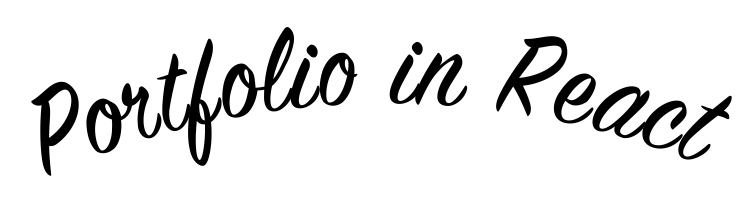
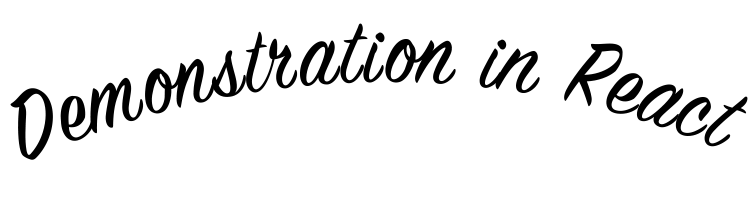
マージン修正、ドロワー修正、タイトル画像修正

Changed region(s): [[0.0, 0.12, 1.0, 0.87]]

diff --git a/src/Nav.js b/src/Nav.js
@@ -2,7 +2,6 @@
 import React, {useContext} from 'react';
 import { Link } from 'react-router-dom';
 import MenuItem from '@material-ui/core/MenuItem';
-import ClearIcon from '@material-ui/icons/Clear';
 import { makeStyles } from '@material-ui/core/styles';
 import MailIcon from '@material-ui/icons/Mail';
 import GamepadIcon from '@material-ui/icons/Gamepad';
@@ -11,7 +10,7 @@ import HomeIcon from '@material-ui/icons/Home';
 import MenuBookIcon from '@material-ui/icons/MenuBook';
 import { AuthContext } from "./auth/AuthProvider";
 import { TittleAlarm } from "./Game";
-import Title from './img/mtitle.png';
+
 
 const useStyles = makeStyles({
   link: {
@@ -34,18 +33,6 @@ const useStyles = makeStyles({
   },
   icon: {
     fontSize: 40
-  },
-  mtitle: {
-    width: '200px',
-    margin: '24px'
-  },
-  right: {
-    textAlign: 'right',
-    marginRight: '8px'
-  },
-  rightIcon: {
-    fontSize: 30,
-    color: 'white'
   },
   drowermenu: {
     marginTop: '48px',
@@ -76,8 +63,6 @@ function Nav() {
   const { currentUser } = useContext(AuthContext);
   return (
     <div className="flex">
-      <img src={Title} alt="portfolio in react" className={classes.mtitle}/>
-      <div className={classes.right}><ClearIcon className={classes.rightIcon}/></div>
       <div className={classes.drowermenu}>
         <Link to="/"className={classes.link}>
           <MenuItem className={classes.listItem}><HomeIcon className={classes.yIcon}/>　Top</MenuItem>

diff --git a/src/Header.js b/src/Header.js
@@ -11,6 +11,8 @@ import Drawer from '@material-ui/core/Drawer';
 import Nav from './Nav';
 import MenuList from '@material-ui/core/MenuList';
 import { app } from "./base";
+import Title from './img/mtitle.png';
+import ClearIcon from '@material-ui/icons/Clear';
 
 const useStyles = makeStyles((theme) => ({
   appbar: {
@@ -31,10 +33,14 @@ const useStyles = makeStyles((theme) => ({
     color: '#FFF',
     transform:　'rotate(-15deg)',
     fontFamily: ['"Noto Serif"','"Shippori Mincho B1"', 'serif'],
-    margin: '24px 10px'
+    margin: '24px 10px 0px'
   },
   title: {
     flexGrow: 1,
+  },
+  mtitle: {
+    width: '200px',
+    margin: '24px'
   },
   list: {
     width: 250,
@@ -44,6 +50,14 @@ const useStyles = makeStyles((theme) => ({
   link: {
     textDecorationLine: 'none',
     color: 'inherit',
+  },
+  right: {
+    textAlign: 'right',
+    marginRight: '8px'
+  },
+  rightIcon: {
+    fontSize: 30,
+    color: 'white'
   },
 }));
 
@@ -94,6 +108,8 @@ export default function MenuAppBar() {
                 onClick={toggleDrawer('left', false)}
                 onKeyDown={toggleDrawer('left', false)}
               >
+                <img src={Title} alt="portfolio in react" className={classes.mtitle}/>
+                <div className={classes.right}><ClearIcon className={classes.rightIcon}/></div>
                 <MenuList>
                   <Nav />
                 </MenuList>

diff --git a/src/css/index.css b/src/css/index.css
@@ -9,7 +9,7 @@ code {
 }
 .contents {
   margin: 0;
-  margin-top: 123px;
+  margin-top: 100px;
   height: 100%;
   display: flex;
   align-items: center;
@@ -19,13 +19,9 @@ code {
 }
 
 .formContainer {
-  padding: 20px 20px 0px 20px;
+  padding: 0px 20px 0px 20px;
   max-width: 700px;
   margin: auto;
-}
-
-.MyAccount {
-  padding: 20px;
 }
 
 /* Material-UI BUTTON/input*/

diff --git a/src/Profile.js b/src/Profile.js
@@ -13,7 +13,7 @@ export default function Profile() {
       <p>Mail: emailjs</p>
       <p>Game: React Tutorial</p>
       
-      <h2>about me</h2>
+      <h2>about Auther</h2>
       <p>Name: Tomomi Suzuki</p>
       <p>Address: Sagamihara city, Kanagawa</p>
       <p>Birth: 1977 at Shibuya city, Tokyo</p>

diff --git a/src/MyAccount.js b/src/MyAccount.js
@@ -1,5 +1,6 @@
 import React from 'react';
 import { app } from "./base.js";
+import './css/auth.css';
 
 export default function MyAccount() {
   const user = app.auth().currentUser;

diff --git a/src/css/profile.css b/src/css/profile.css
@@ -2,7 +2,7 @@
   padding: 0px 20px 0px 20px;
   margin: auto;
   width: 100%;
-  padding-bottom: 83px;
+  padding-bottom: 120px;
 }
 
 .comment {

diff --git a/src/css/App.css b/src/css/App.css
@@ -46,7 +46,7 @@ form {
 }
 
 .MuiButton-contained {
-  margin-top: 32px;
+  margin-top: 56px;
   height: 50px;
   font-size: 15px;
 }

diff --git a/src/css/Book.css b/src/css/Book.css
@@ -1,7 +1,6 @@
 .lylic {
   width: 100%;
   text-align: center;
-  margin-top: -20px;
 }
 .stf__item {
   background-color: #FFF;

diff --git a/src/css/auth.css b/src/css/auth.css
@@ -10,3 +10,8 @@
 h1 {
   text-align: left;
 }
+.MyAccount {
+  padding: 0px 20px 0px 20px;
+  margin: auto;
+  width: 100%;
+}

diff --git a/src/css/contact.css b/src/css/contact.css
@@ -1,4 +1,3 @@
 .contact {
   width: 100%;
-  margin-top: -20px;
 }
